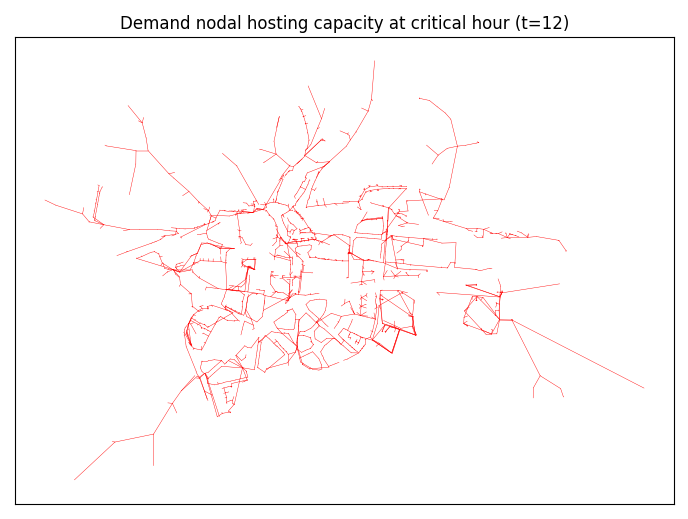
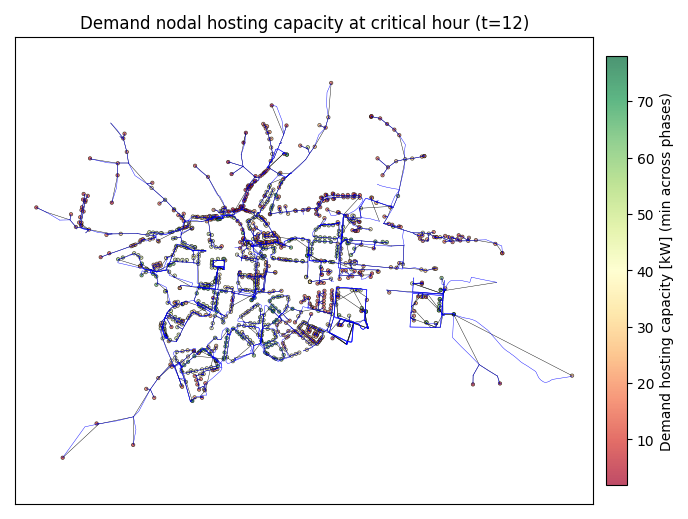
add proper lines that are drawn with segments

diff --git a/ch_4_plot_map.py b/ch_4_plot_map.py
@@ -30,8 +30,15 @@ LINE_WIDTH = 0.3  # Width of the line in points. Range: 0 (no line) to ~2+ (thic
 LINE_ALPHA = 1.0  # Transparency of the line. Range: 0 (invisible) to 1 (fully opaque).
 LINE_COLOR = "black"  # Color of the line. Use any matplotlib color name (e.g., "black", "white", "red") or hex code (e.g., "#000000").
 
+# ---------- Proper Line (Line Segments) with Segments Settings ----------
+PLOT_PROPER_LINES = True  # Toggle proper segment-based lines on/off
+
+PROPER_LINE_WIDTH = 0.3   # Width of proper lines
+PROPER_LINE_ALPHA = 1.0   # Transparency of proper lines
+PROPER_LINE_COLOR = "blue"  # Color of proper lines (blue to distinguish from black direct lines)
+
 # ---------- Circle Settings ----------
-PLOT_CIRCLES = False  # Toggle circle points on/off (master toggle)
+PLOT_CIRCLES = True  # Toggle circle points on/off (master toggle)
 
 # Circle fill (inside)
 PLOT_CIRCLE_FILL = True  # Toggle circle fill color on/off. When True, circles are colored by HC values using CIRCLE_CMAP. When False, circles appear in a plain gray color.
@@ -80,6 +87,41 @@ def line_segments(bus: pd.DataFrame, line: pd.DataFrame) -> pd.DataFrame:
     b2 = bus[["BusId", "X", "Y"]].rename(columns={"BusId": "Bus2", "X": "X2", "Y": "Y2"})
     seg = line.merge(b1, on="Bus1", how="left").merge(b2, on="Bus2", how="left")
     return seg[["X1", "Y1", "X2", "Y2"]]
+
+
+def proper_line_segments(bus: pd.DataFrame, line: pd.DataFrame, db_path: Path) -> pd.DataFrame:
+    if line.empty:
+        return pd.DataFrame()
+    
+    con = sqlite3.connect(db_path)
+    seg = pd.read_sql_query("SELECT Line, ID, X, Y FROM Seg ORDER BY Line, ID", con)
+    con.close()
+    
+    if seg.empty:
+        return pd.DataFrame()
+    
+    bus = bus.rename(columns={"ID": "BusId"})
+    bus_xy = bus.set_index("BusId")[["X", "Y"]].to_dict("index")
+    
+    results = []
+    for _, row in line.iterrows():
+        bus1, bus2 = row.get("Bus1"), row.get("Bus2")
+        seg1, seg2 = row.get("Seg1"), row.get("Seg2")
+        
+        if pd.notna(seg1) and pd.notna(seg2):
+            mask = (seg["Line"] == row["ID"]) & (seg["ID"] >= seg1) & (seg["ID"] <= seg2)
+            pts = seg.loc[mask, ["X", "Y"]].values.tolist()
+        else:
+            pts = []
+            if bus1 in bus_xy:
+                pts.append([bus_xy[bus1]["X"], bus_xy[bus1]["Y"]])
+            if bus2 in bus_xy:
+                pts.append([bus_xy[bus2]["X"], bus_xy[bus2]["Y"]])
+        
+        if len(pts) >= 2:
+            results.append({"X": [p[0] for p in pts], "Y": [p[1] for p in pts]})
+    
+    return pd.DataFrame(results)
 
 
 def _find_window_pids_with_title(substring: str):
@@ -229,6 +271,7 @@ def main():
 
     pts_all = []
     seg_all = []
+    proper_seg_all = []
 
     station_dirs = sorted([p for p in root.iterdir() if p.is_dir()])
 
@@ -260,8 +303,14 @@ def main():
             if not seg.empty:
                 seg_all.append(seg)
 
+        if PLOT_PROPER_LINES:
+            proper_seg = proper_line_segments(bus, line, db_path)
+            if not proper_seg.empty:
+                proper_seg_all.append(proper_seg)
+
     pts = pd.concat(pts_all, ignore_index=True).dropna(subset=["X", "Y", "HC"])
     seg = pd.concat(seg_all, ignore_index=True) if seg_all else pd.DataFrame()
+    proper_seg = pd.concat(proper_seg_all, ignore_index=True) if proper_seg_all else pd.DataFrame()
 
     # --------- Plot ---------
     fig_w_in = OUT_W_MM * INCH_PER_MM
@@ -278,6 +327,17 @@ def main():
                 linewidth=LINE_WIDTH,
                 color=LINE_COLOR,
                 alpha=LINE_ALPHA
+            )
+
+    if PLOT_PROPER_LINES and not proper_seg.empty:
+        proper_seg = proper_seg.dropna()
+        for _, r in proper_seg.iterrows():
+            ax.plot(
+                r["X"],
+                r["Y"],
+                linewidth=PROPER_LINE_WIDTH,
+                color=PROPER_LINE_COLOR,
+                alpha=PROPER_LINE_ALPHA
             )
 
     if PLOT_CIRCLES:
